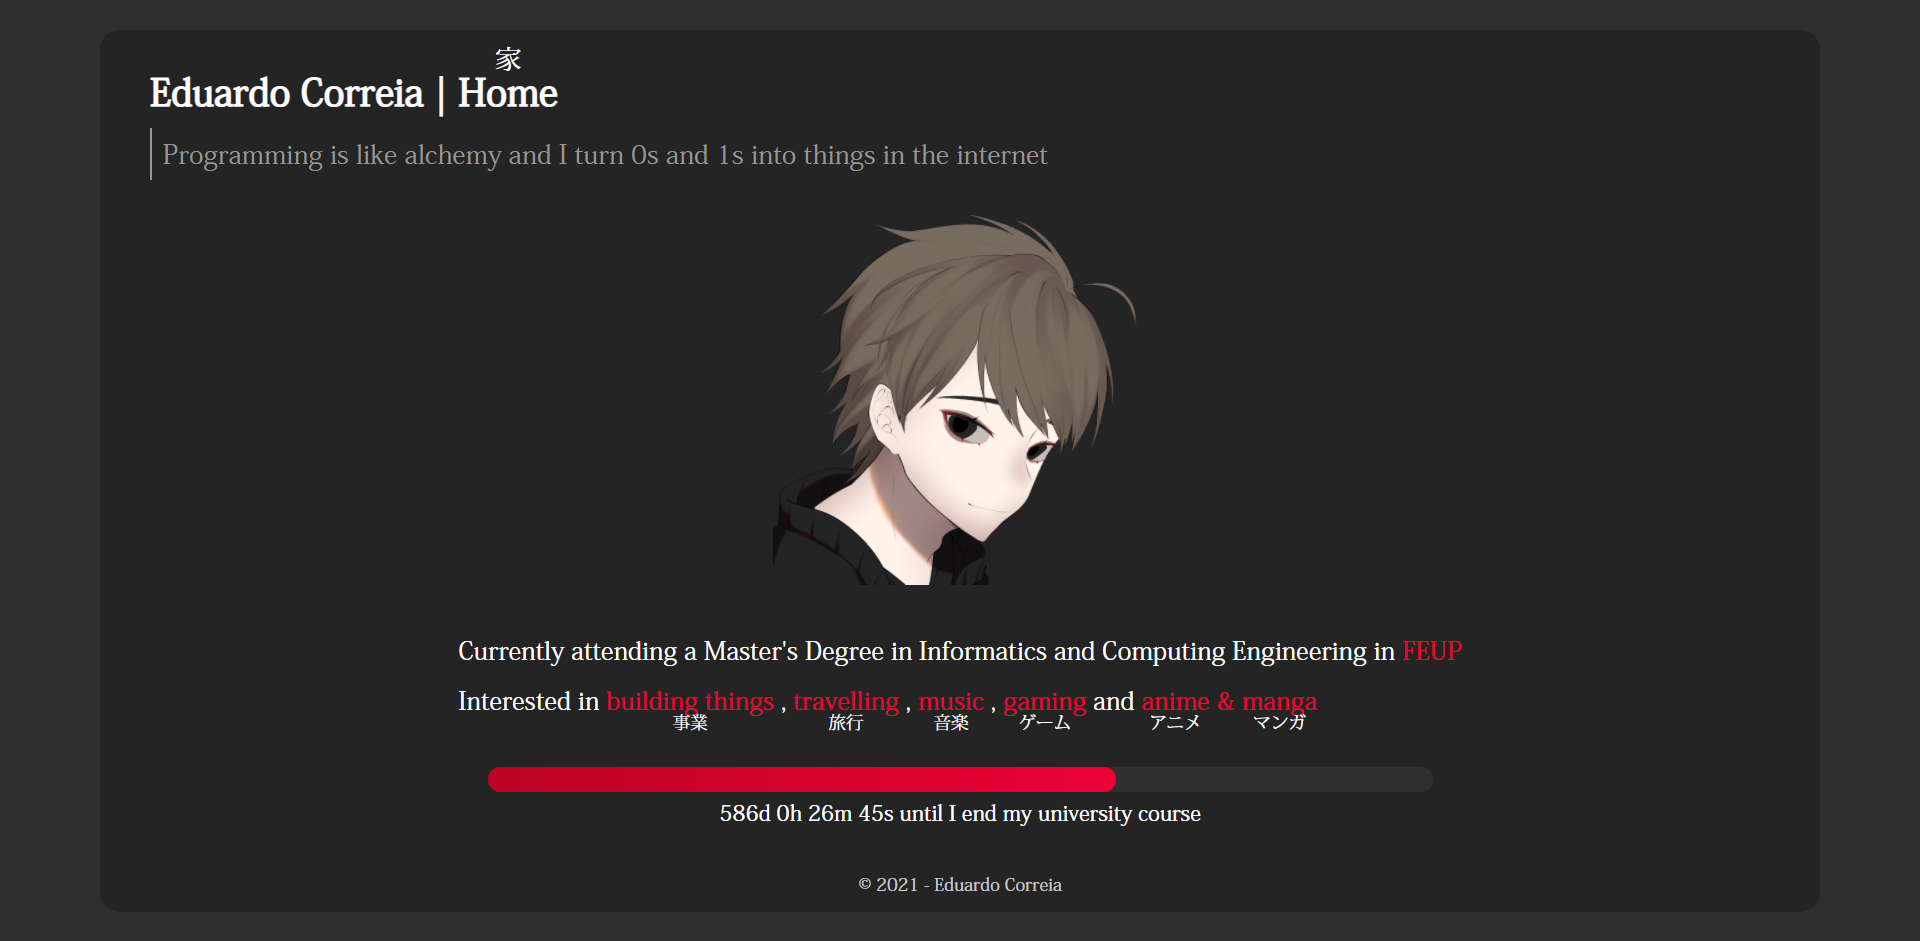
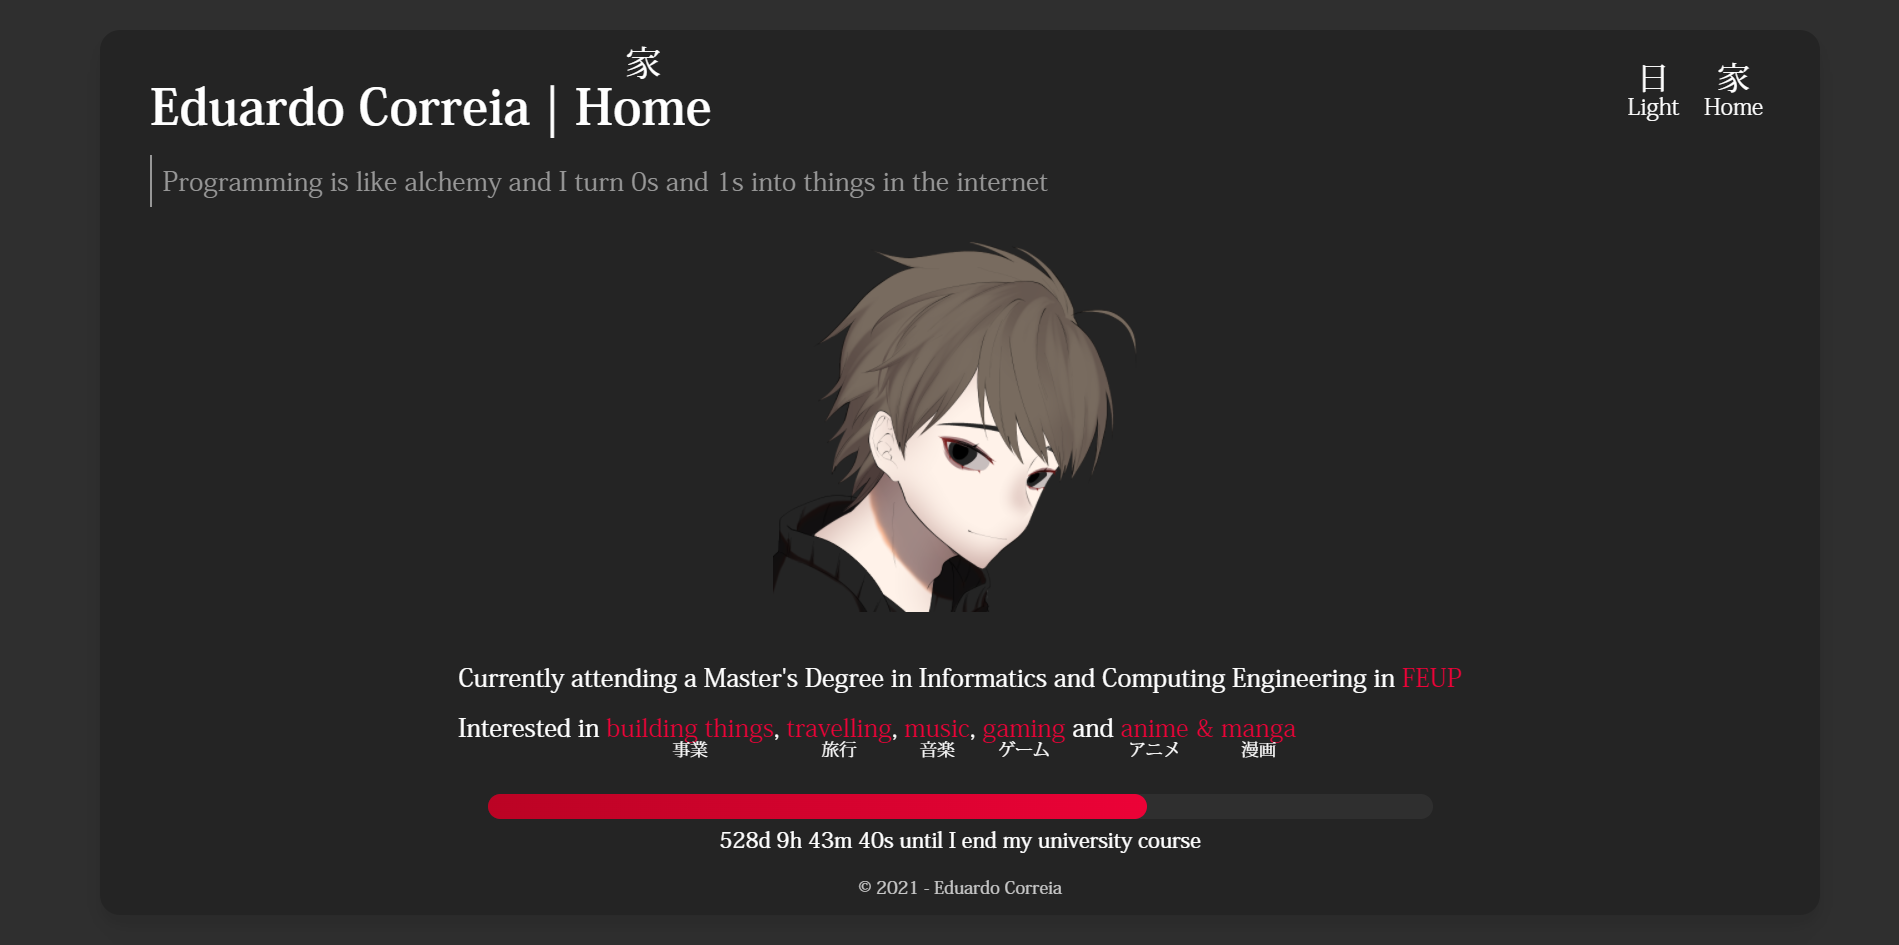
Created an index page for the blog
- Created a new article titled"Counting things"
- Added comments to account for newline spaces

diff --git a/pages/index.vue b/pages/index.vue
@@ -4,7 +4,7 @@
 			<h1>
 				Eduardo Correia |
 				<ruby
-					>Home
+				>Home
 					<rt>家</rt>
 				</ruby>
 			</h1>
@@ -19,45 +19,61 @@
 
 			<p class="mx-auto">
 				Currently attending a Master's Degree in Informatics and Computing Engineering in
-				<a href="https://sigarra.up.pt/feup/">FEUP</a>
+				<a href="https://sigarra.up.pt/feup/">FEUP</a>.
+
 				<br />
+
 				Interested in
 				<nuxt-link to="/projects">
 					<ruby class="under"
-						>building things
+					>building things
 						<rt>事業</rt>
 					</ruby>
-				</nuxt-link>,
+				</nuxt-link><!--
+				-->,
 				<nuxt-link to="/travel">
 					<ruby class="under"
-						>travelling
+					>travelling
 						<rt>旅行</rt>
 					</ruby>
-				</nuxt-link>,
+				</nuxt-link><!--
+				-->,
 				<nuxt-link to="/music">
 					<ruby class="under"
-						>music
+					>music
 						<rt>音楽</rt>
 					</ruby>
-				</nuxt-link>,
+				</nuxt-link><!--
+				-->,
 				<nuxt-link to="/">
 					<ruby class="under"
-						>gaming
+					>gaming
 						<rt>ゲーム</rt>
 					</ruby>
 				</nuxt-link>
 				and
 				<nuxt-link to="/">
 					<ruby class="under"
-						>anime
+					>anime
 						<rt>アニメ</rt>
 					</ruby>
 					&
 					<ruby class="under"
-						>manga
+					>manga
 						<rt>漫画</rt>
 					</ruby>
-				</nuxt-link>
+				</nuxt-link><!--
+				-->.
+
+				<br />
+
+				I also have a
+				<nuxt-link to="/blog/my-first-blog-post">
+					<ruby class="under">blog
+						<rt>網誌</rt>
+					</ruby>
+				</nuxt-link><!--
+				-->.
 			</p>
 
 			<div id="university-progress">
@@ -80,9 +96,9 @@ export default {
 	head: {
 		title: "Home | Eduardo Correia",
 		meta: [
-			{name: "twitter:title", content: "Home | Eduardo Correia"},
-			{property: "og:title", content: "Home | Eduardo Correia"},
-		]
+			{ name: "twitter:title", content: "Home | Eduardo Correia" },
+			{ property: "og:title", content: "Home | Eduardo Correia" },
+		],
 	},
 	components: {
 		ProgressBar,

diff --git a/layouts/default.vue b/layouts/default.vue
@@ -8,14 +8,14 @@
 					<button style="font-size: 1.3em" @click="changeMode">
 						<span v-if="this.$colorMode.preference === 'dark'">
 							<ruby class="under"
-								>日
+							>日
 								<rt>Light</rt>
 							</ruby>
 						</span>
 
 						<span v-else>
 							<ruby class="under"
-								>夜
+							>夜
 								<rt>Dark</rt>
 							</ruby>
 						</span>
@@ -23,7 +23,7 @@
 
 					<nuxt-link to="/" style="font-size: 1.3em" class="text-black dark:text-white">
 						<ruby class="under"
-							>家
+						>家
 							<rt>Home</rt>
 						</ruby>
 					</nuxt-link>
@@ -34,7 +34,7 @@
 				<nuxt />
 			</div>
 
-			<footer>&copy; 2021 - Eduardo Correia</footer>
+			<footer>&copy; 2022 - Eduardo Correia</footer>
 		</div>
 	</div>
 </template>
@@ -107,5 +107,17 @@ button {
 footer {
 	@apply text-center text-sm;
 	color: #c8c8c8;
+}
+
+html.dark code {
+	background-color: rgba(110, 118, 129, 0.4);
+}
+
+code {
+	padding: .2em .4em;
+	margin: 0;
+	font-size: 85%;
+	border-radius: 6px;
+	background-color: rgba(175,184,193,0.2);
 }
 </style>

diff --git a/pages/blog/index.vue b/pages/blog/index.vue
@@ -1,0 +1,50 @@
+<template>
+	<div>
+		<portal to="h1">
+			<h1 class="inline">
+				Eduardo Correia |
+				<ruby>
+					Blog
+					<rt>網誌</rt>
+				</ruby>
+			</h1>
+		</portal>
+
+		<section>
+			<div v-for="post in posts" :key="post.title">
+				{{ post.title }}
+			</div>
+		</section>
+	</div>
+</template>
+
+<script>
+import { Portal } from "portal-vue";
+
+export default {
+	name: "blog",
+	head: {
+		title: "Blog | Eduardo Correia",
+		meta: [
+			{ name: "twitter:title", content: "Blog | Eduardo Correia" },
+			{ property: "og:title", content: "Blog | Eduardo Correia" },
+		],
+	},
+	components: {
+		Portal,
+	},
+	async asyncData({ $content }) {
+		const posts = await $content("articles").fetch();
+
+		console.log(posts)
+
+		return {
+			posts,
+		};
+	},
+};
+</script>
+
+<style scoped>
+
+</style>

diff --git a/nuxt.config.js b/nuxt.config.js
@@ -8,8 +8,11 @@ export default {
 			{ name: "viewport", content: "width=device-width, initial-scale=1" },
 			{ hid: "description", name: "description", content: "" },
 			{ name: "format-detection", content: "telephone=no" },
+			{ name: "twitter:image", content: "~/assets/images/avatar.png"}
 		],
-		link: [{ rel: "icon", type: "image/x-icon", href: "/favicon.ico" }],
+		link: [
+			{ rel: "icon", type: "image/x-icon", href: "/favicon.ico" },
+		],
 	},
 	css: ["flag-icon-css/css/flag-icons.css"],
 	plugins: [
@@ -21,7 +24,7 @@ export default {
 		"@nuxtjs/color-mode",
 	],
 	modules: [
-		"@nuxt/content"
+		"@nuxt/content",
 	],
 	build: {
 		standalone: true,

diff --git a/pages/blog/_slug.vue b/pages/blog/_slug.vue
@@ -1,11 +1,28 @@
 <template>
-	<article>
-		<nuxt-content :document="article" />
-	</article>
+	<div>
+		<portal to="h1">
+			<h1 class="inline">
+				Eduardo Correia |
+				<ruby>
+					Blog
+					<rt>網誌</rt>
+				</ruby>
+			</h1>
+		</portal>
+
+		<article>
+			<nuxt-content :document="article" />
+		</article>
+	</div>
 </template>
 
 <script>
+import { Portal } from "portal-vue";
+
 export default {
+	components: {
+		Portal,
+	},
 	async asyncData({ $content, params }) {
 		const article = await $content("articles", params.slug).fetch();
 

diff --git a/content/articles/counting-things.md b/content/articles/counting-things.md
@@ -1,0 +1,50 @@
+---
+title: "Counting things - What kind of insight does it provide us?"
+---
+
+# Counting things - What kind of insight does it provide us?
+
+"Couting what potatoes?" that's a phrase you must have probably already on a math class.  
+Since the dawn of humanity, the human being felt the necessity to classify things and count them.  
+However, 
+
+Say for example you have to count the number of red fruits on a table.
+
+red apples / green apples
+are peaches red?
+categorizing berries as whole
+Unripe balckberry
+
+Why classifying apples as whole but not raspberries?
+Are vegetables fruits?
+Weight / cost
+
+## Github LOC
+
+- **Documentation** - being automatically generated (*e.g.* `HTML`, or handwritten, *e.g.* `Latex`)
+- **Verbosity** - different number of SLOC for two more programs with the same purpose (*e.g.* "Hello World" in `C` vs
+  `Python`)
+- **Separate languages** - separate language classification for same extensions (*e.g.* `PHP` and `Blade` are classified
+  separately)
+- **Exclusion** - Not being classified at all as a language (*e.g.* `JSON` and `Markdown`)
+- Jupyter Notebook (many lines of code are automaticall generated)
+- **One-liners** (`Haskell`)
+- **Misclassification** - `ROFF`/`CHIP-8`
+  
+Why is Latex considered a language, but not, let's say Markdown? To achieve the same purpose.  
+Or Jupyter Notebook being just a glorified JSON that wraps Python code?  
+Heck, JSON can even be classified as valid Javascript code.  
+Blade is a separate language, but not Python Django code.
+
+Some of these concerns can be mitigated with a correct configuration of `.gitattributes`, however this needs a correct
+knowledge of the source code.
+
+## Last.fm scrobbles
+
+![](https://i0.wp.com/astralnoizeuk.com/wp-content/uploads/2018/03/01034532_dopesmoker.jpg?fit=980%2C551&ssl=1)
+
+For quite a while now, I've been using [Last.fm](https://www.last.fm/user/Educorreia932) as a tool to track my listening habits.
+
+It's useful and allows
+
+## Conclusion

diff --git a/content/articles/my-first-blog-post.md b/content/articles/my-first-blog-post.md
@@ -1,3 +1,20 @@
+---
+title: "My first blog post"
+---
+
 # My first blog post
 
-Welcome to my first blog post using content module
+## Who am I?
+
+My name is **Eduardo Correia**, I was born October 10<sup>th</sup>, 2000 in **Portugal**.  
+I'm currently finishing my 4<sup>th</sup> year of a Master's Degree
+in [Informatics and Computing Engineering](https://sigarra.up.pt/feup/en/CUR_GERAL.CUR_VIEW?pv_curso_id=742) at FEUP.  
+In my free time, I enjoy [playing games](/games), reading, listening to music and working on [personal projects](/projects).  
+You can find my CV here.
+
+## How I created this web page and blog
+
+
+Well, the initial idea came from a [friend of mine](https://joaocosta.dev/), which in turn 
+
+I'm using Nuxt with TailwindCSS
